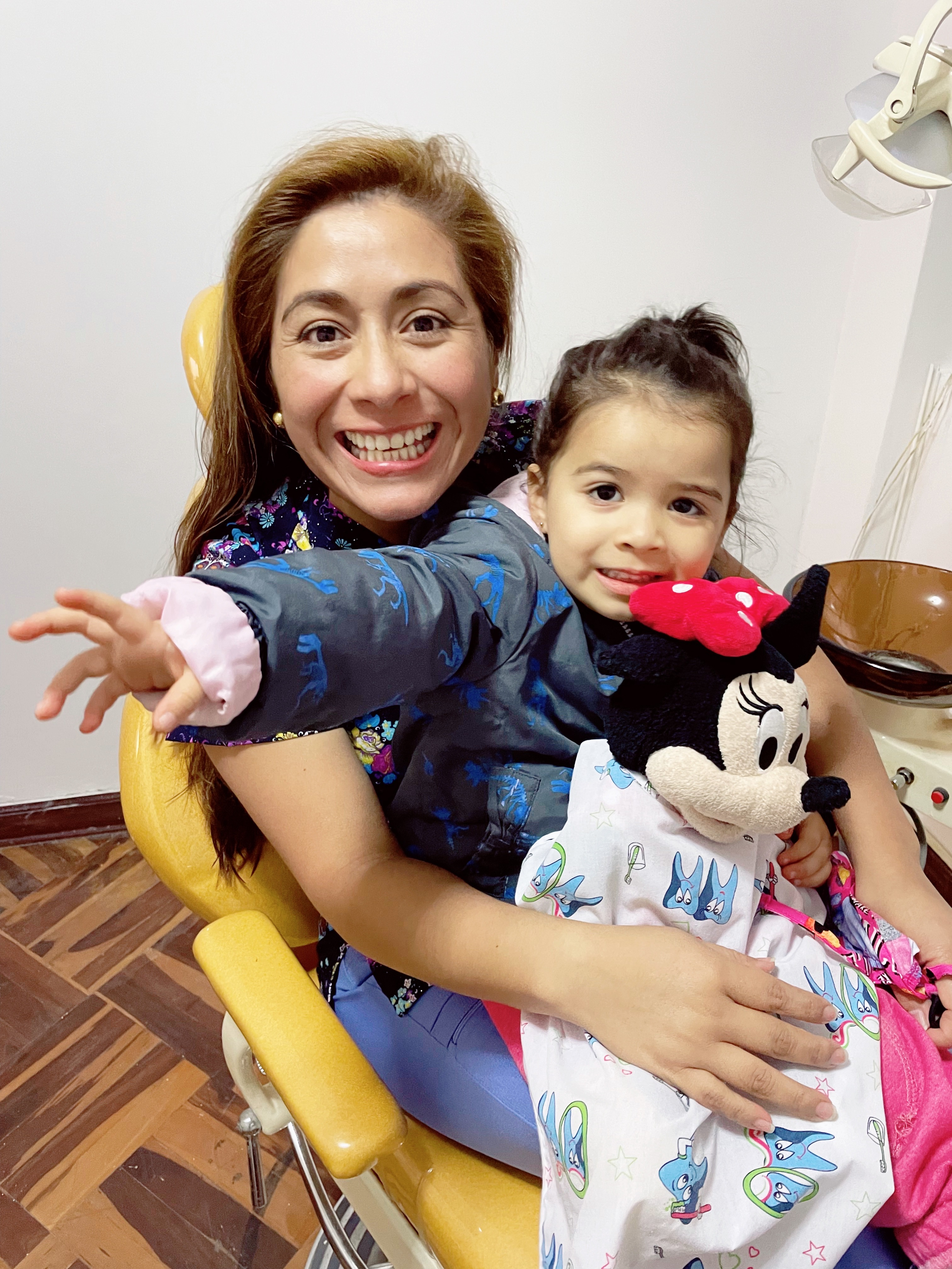
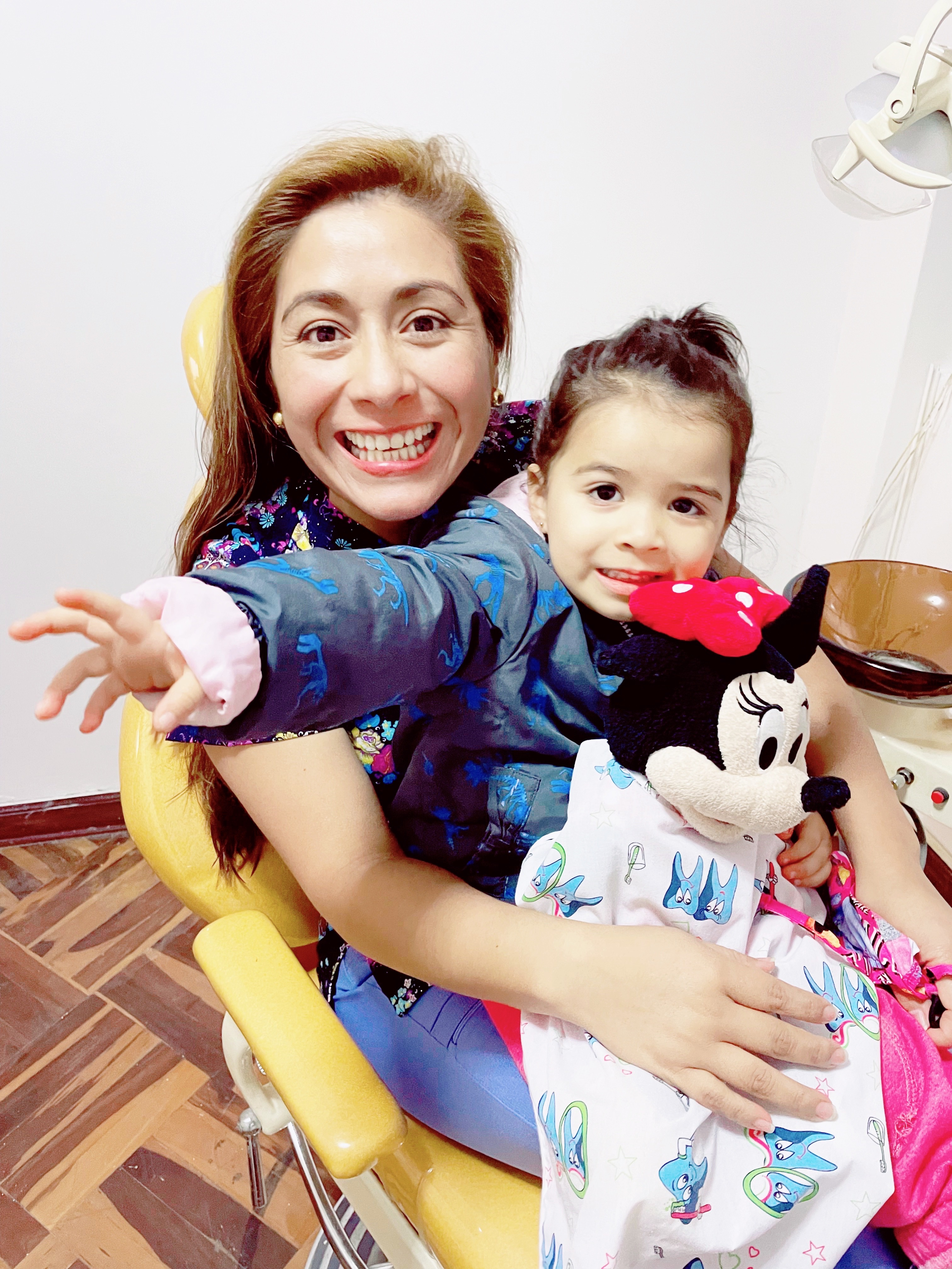
Update styling and edit imgs

diff --git a/index.html b/index.html
@@ -6,7 +6,7 @@
     <meta property="og:title" content="Dra. Viviana">
     <meta property="og:image" content="img/IMG-5522.JPG">
     <meta property="og:url" content="http://vivi.dentist/">
-    <title>Dra. Viviana</title>
+    <title>Dra. Vivi</title>
     <link rel=icon href=favicon.ico>
     <script src="https://cdn.tailwindcss.com"></script>
   </head>
@@ -76,7 +76,7 @@
           </ul>
         </div>
         <div class="lg:max-w-lg lg:w-full md:w-1/2 w-5/6">
-          <img class="object-cover object-center rounded" alt="hero" src="img/selfie.JPG">
+          <img class="object-cover object-center rounded" alt="hero" src="img/portrait.JPG">
         </div>
       </div>
     </section>
@@ -89,8 +89,8 @@
         </div>
 
         <div class="flex flex-wrap m-4">
-          <div class="p-4 md:w-1/3 w-full">
-            <div class="flex rounded-lg h-full bg-gray-100 p-8 flex-col">
+          <div class="p-4 md:w-1/2 w-full">
+            <div class="flex rounded-lg h-full bg-sky-200 p-8 flex-col">
               <div class="flex items-center mb-3">
                 <div class="w-8 h-8 mr-3 inline-flex items-center justify-center flex-shrink-0">
                   <svg xmlns="http://www.w3.org/2000/svg" viewBox="0 0 448 512"><!--! Font Awesome Pro 6.1.2 by @fontawesome - https://fontawesome.com License - https://fontawesome.com/license (Commercial License) Copyright 2022 Fonticons, Inc. --><path d="M438.6 105.4C451.1 117.9 451.1 138.1 438.6 150.6L182.6 406.6C170.1 419.1 149.9 419.1 137.4 406.6L9.372 278.6C-3.124 266.1-3.124 245.9 9.372 233.4C21.87 220.9 42.13 220.9 54.63 233.4L159.1 338.7L393.4 105.4C405.9 92.88 426.1 92.88 438.6 105.4H438.6z"/></svg>
@@ -105,8 +105,8 @@
             </div>
           </div>
 
-          <div class="p-4 md:w-1/3 w-full">
-            <div class="flex rounded-lg h-full bg-gray-100 p-8 flex-col">
+          <div class="p-4 md:w-1/2 w-full">
+            <div class="flex rounded-lg h-full bg-sky-200 p-8 flex-col">
               <div class="flex items-center mb-3">
                 <div class="w-8 h-8 mr-3 inline-flex items-center justify-center flex-shrink-0">
                   <svg xmlns="http://www.w3.org/2000/svg" viewBox="0 0 448 512"><!--! Font Awesome Pro 6.1.2 by @fontawesome - https://fontawesome.com License - https://fontawesome.com/license (Commercial License) Copyright 2022 Fonticons, Inc. --><path d="M394.1 212.8c-20.04 27.67-28.07 60.15-31.18 93.95c-3.748 41.34-8.785 82.46-17.89 122.8l-6.75 29.64c-2.68 12.14-13.29 20.78-25.39 20.78c-12 0-22.39-8.311-25.29-20.23l-29.57-121.2C254.1 322.6 240.1 311.4 224 311.4c-16.18 0-30.21 11.26-34.07 27.23l-29.57 121.2c-2.893 11.92-13.39 20.23-25.29 20.23c-12.21 0-22.71-8.639-25.5-20.78l-6.643-29.64c-9.105-40.36-14.14-81.48-17.1-122.8C81.93 272.1 73.9 240.5 53.86 212.8c-18.75-25.92-27.11-60.15-18.43-96.57c9.428-39.59 40.39-71.75 78.85-82.03c20.14-5.25 39.54-.4375 57.32 9.077l86.14 56.54c6.643 4.375 15.11 1.86 18.96-4.264c4.07-6.454 2.25-15.09-4.18-19.36l-24.21-15.86c3-1.531 6.215-2.735 9-4.813c22.39-16.84 48.75-28.65 76.39-21.33c38.46 10.28 69.43 42.43 78.85 82.03C421.2 152.7 412.9 187 394.1 212.8z"/></svg>
@@ -122,8 +122,8 @@
             </div>
           </div>
 
-          <div class="p-4 md:w-1/3 w-full">
-            <div class="flex rounded-lg h-full bg-gray-100 p-8 flex-col">
+          <div class="p-4 md:w-1/2 w-full">
+            <div class="flex rounded-lg h-full bg-sky-200 p-8 flex-col">
               <div class="flex items-center mb-3">
                 <div class="w-8 h-8 mr-3 inline-flex items-center justify-center flex-shrink-0">
                   <svg xmlns="http://www.w3.org/2000/svg" viewBox="0 0 576 512"><!--! Font Awesome Pro 6.2.0 by @fontawesome - https://fontawesome.com License - https://fontawesome.com/license (Commercial License) Copyright 2022 Fonticons, Inc. --><path d="M96 32C43 32 0 75 0 128v64c0 35.3 28.7 64 64 64H512c35.3 0 64-28.7 64-64V128c0-53-43-96-96-96H96zM224 96c26.5 0 48 21.5 48 48v56c0 13.3-10.7 24-24 24H200c-13.3 0-24-10.7-24-24V144c0-26.5 21.5-48 48-48zm80 48c0-26.5 21.5-48 48-48s48 21.5 48 48v56c0 13.3-10.7 24-24 24H328c-13.3 0-24-10.7-24-24V144zM96 128c26.5 0 48 21.5 48 48v24c0 13.3-10.7 24-24 24H72c-13.3 0-24-10.7-24-24V176c0-26.5 21.5-48 48-48zm336 48c0-26.5 21.5-48 48-48s48 21.5 48 48v24c0 13.3-10.7 24-24 24H456c-13.3 0-24-10.7-24-24V176zM96 480H480c53 0 96-43 96-96V352c0-35.3-28.7-64-64-64H64c-35.3 0-64 28.7-64 64v32c0 53 43 96 96 96zm0-64c-26.5 0-48-21.5-48-48V344c0-13.3 10.7-24 24-24h48c13.3 0 24 10.7 24 24v24c0 26.5-21.5 48-48 48zm80-48V344c0-13.3 10.7-24 24-24h48c13.3 0 24 10.7 24 24v24c0 26.5-21.5 48-48 48s-48-21.5-48-48zm176 48c-26.5 0-48-21.5-48-48V344c0-13.3 10.7-24 24-24h48c13.3 0 24 10.7 24 24v24c0 26.5-21.5 48-48 48zm80-48V344c0-13.3 10.7-24 24-24h48c13.3 0 24 10.7 24 24v24c0 26.5-21.5 48-48 48s-48-21.5-48-48z"/></svg>
@@ -138,24 +138,24 @@
             </div>
           </div>
 
-          <div class="p-4 md:w-1/3 w-full">
-            <div class="flex rounded-lg h-full bg-gray-100 p-8 flex-col">
+          <div class="p-4 md:w-1/2 w-full">
+            <div class="flex rounded-lg h-full bg-sky-200 p-8 flex-col">
               <div class="flex items-center mb-3">
                 <div class="w-8 h-8 mr-3 inline-flex items-center justify-center flex-shrink-0">
-                  <svg xmlns="http://www.w3.org/2000/svg" viewBox="0 0 512 512"><!--! Font Awesome Pro 6.1.2 by @fontawesome - https://fontawesome.com License - https://fontawesome.com/license (Commercial License) Copyright 2022 Fonticons, Inc. --><path d="M0 256C0 114.6 114.6 0 256 0C397.4 0 512 114.6 512 256C512 397.4 397.4 512 256 512C114.6 512 0 397.4 0 256zM256.3 331.8C208.9 331.8 164.1 324.9 124.5 312.8C112.2 309 100.2 319.7 105.2 331.5C130.1 390.6 188.4 432 256.3 432C324.2 432 382.4 390.6 407.4 331.5C412.4 319.7 400.4 309 388.1 312.8C348.4 324.9 303.7 331.8 256.3 331.8H256.3zM176 128C158.3 128 144 156.7 144 192C144 227.3 158.3 256 176 256C193.7 256 208 227.3 208 192C208 156.7 193.7 128 176 128zM336 256C353.7 256 368 227.3 368 192C368 156.7 353.7 128 336 128C318.3 128 304 156.7 304 192C304 227.3 318.3 256 336 256z"/></svg>
+                  <svg xmlns="http://www.w3.org/2000/svg" viewBox="0 0 576 512"><!--! Font Awesome Pro 6.1.2 by @fontawesome - https://fontawesome.com License - https://fontawesome.com/license (Commercial License) Copyright 2022 Fonticons, Inc. --><path d="M480 32H96C42.98 32 0 74.98 0 128v256c0 53.02 42.98 96 96 96h384c53.02 0 96-42.98 96-96V128C576 74.98 533 32 480 32zM144 336C144 362.5 122.5 384 96 384s-48-21.5-48-48v-32C48 295.1 55.13 288 64 288h64c8.875 0 16 7.125 16 16V336zM144 240C144 248.9 136.9 256 128 256H64C55.13 256 48 248.9 48 240v-32C48 181.5 69.5 160 96 160s48 21.5 48 48V240zM272 336C272 362.5 250.5 384 224 384s-48-21.5-48-48v-32C176 295.1 183.1 288 192 288h64c8.875 0 16 7.125 16 16V336zM272 242.3C272 249.9 265.9 256 258.3 256H189.7C182.1 256 176 249.9 176 242.3V176C176 149.5 197.5 128 224 128s48 21.54 48 48V242.3zM400 336c0 26.5-21.5 48-48 48s-48-21.5-48-48v-32C304 295.1 311.1 288 320 288h64c8.875 0 16 7.125 16 16V336zM400 242.3C400 249.9 393.9 256 386.3 256h-68.57C310.1 256 304 249.9 304 242.3V176C304 149.5 325.5 128 352 128s48 21.54 48 48V242.3zM528 336c0 26.5-21.5 48-48 48s-48-21.5-48-48v-32C432 295.1 439.1 288 448 288h64c8.875 0 16 7.125 16 16V336zM528 240C528 248.9 520.9 256 512 256h-64c-8.875 0-16-7.125-16-16v-32C432 181.5 453.5 160 480 160s48 21.5 48 48V240z"/></svg>
                 </div>
-                <h2 class="es text-gray-900 text-lg title-font font-medium">Implantes</h2>
-                <h2 class="en text-gray-900 text-lg title-font font-medium">Implants</h2>
+                <h2 class="es text-gray-900 text-lg title-font font-medium">Restauraciones Estéticas</h2>
+                <h2 class="en text-gray-900 text-lg title-font font-medium">Aesthetic Restorations</h2>
               </div>
               <div class="flex-grow">
-                <p class="es leading-relaxed text-base">Hermosos implantes de larga duración que transforman tu mordida y tu sonrisa.</p>
-                <p class="en leading-relaxed text-base">Beautiful long-lasting implants that transform your bite and your smile.</p>
+                <p class="es leading-relaxed text-base">Actualmente se considera una opción terapéutica para modificar el color, la forma y la posición de los dientes mejorando el aspecto de la sonrisa ya sea por defectos dentarios o presencia de lesiones cariosas.</p>
+                <p class="en leading-relaxed text-base">It is currently considered a therapeutic option to modify the color, shape and position of the teeth, improving the appearance of your smile either due to dental defects or the presence of carious lesions.</p>
               </div>
             </div>
           </div>
 
-          <div class="p-4 md:w-1/3 w-full">
-            <div class="flex rounded-lg h-full bg-gray-100 p-8 flex-col">
+          <div class="p-4 md:w-1/2 w-full">
+            <div class="flex rounded-lg h-full bg-sky-200 p-8 flex-col">
               <div class="flex items-center mb-3">
                 <div class="w-8 h-8 mr-3 inline-flex items-center justify-center flex-shrink-0">
                   <svg xmlns="http://www.w3.org/2000/svg" viewBox="0 0 576 512"><!--! Font Awesome Pro 6.1.2 by @fontawesome - https://fontawesome.com License - https://fontawesome.com/license (Commercial License) Copyright 2022 Fonticons, Inc. --><path d="M480 32H96C42.98 32 0 74.98 0 128v256c0 53.02 42.98 96 96 96h384c53.02 0 96-42.98 96-96V128C576 74.98 533 32 480 32zM144 336C144 362.5 122.5 384 96 384s-48-21.5-48-48v-32C48 295.1 55.13 288 64 288h64c8.875 0 16 7.125 16 16V336zM144 240C144 248.9 136.9 256 128 256H64C55.13 256 48 248.9 48 240v-32C48 181.5 69.5 160 96 160s48 21.5 48 48V240zM272 336C272 362.5 250.5 384 224 384s-48-21.5-48-48v-32C176 295.1 183.1 288 192 288h64c8.875 0 16 7.125 16 16V336zM272 242.3C272 249.9 265.9 256 258.3 256H189.7C182.1 256 176 249.9 176 242.3V176C176 149.5 197.5 128 224 128s48 21.54 48 48V242.3zM400 336c0 26.5-21.5 48-48 48s-48-21.5-48-48v-32C304 295.1 311.1 288 320 288h64c8.875 0 16 7.125 16 16V336zM400 242.3C400 249.9 393.9 256 386.3 256h-68.57C310.1 256 304 249.9 304 242.3V176C304 149.5 325.5 128 352 128s48 21.54 48 48V242.3zM528 336c0 26.5-21.5 48-48 48s-48-21.5-48-48v-32C432 295.1 439.1 288 448 288h64c8.875 0 16 7.125 16 16V336zM528 240C528 248.9 520.9 256 512 256h-64c-8.875 0-16-7.125-16-16v-32C432 181.5 453.5 160 480 160s48 21.5 48 48V240z"/></svg>
@@ -170,8 +170,24 @@
             </div>
           </div>
 
-          <div class="p-4 md:w-1/3 w-full">
-            <div class="flex rounded-lg h-full bg-gray-100 p-8 flex-col">
+          <div class="p-4 md:w-1/2 w-full">
+            <div class="flex rounded-lg h-full bg-sky-200 p-8 flex-col">
+              <div class="flex items-center mb-3">
+                <div class="w-8 h-8 mr-3 inline-flex items-center justify-center flex-shrink-0">
+                  <svg xmlns="http://www.w3.org/2000/svg" viewBox="0 0 512 512"><!--! Font Awesome Pro 6.1.2 by @fontawesome - https://fontawesome.com License - https://fontawesome.com/license (Commercial License) Copyright 2022 Fonticons, Inc. --><path d="M0 256C0 114.6 114.6 0 256 0C397.4 0 512 114.6 512 256C512 397.4 397.4 512 256 512C114.6 512 0 397.4 0 256zM256.3 331.8C208.9 331.8 164.1 324.9 124.5 312.8C112.2 309 100.2 319.7 105.2 331.5C130.1 390.6 188.4 432 256.3 432C324.2 432 382.4 390.6 407.4 331.5C412.4 319.7 400.4 309 388.1 312.8C348.4 324.9 303.7 331.8 256.3 331.8H256.3zM176 128C158.3 128 144 156.7 144 192C144 227.3 158.3 256 176 256C193.7 256 208 227.3 208 192C208 156.7 193.7 128 176 128zM336 256C353.7 256 368 227.3 368 192C368 156.7 353.7 128 336 128C318.3 128 304 156.7 304 192C304 227.3 318.3 256 336 256z"/></svg>
+                </div>
+                <h2 class="es text-gray-900 text-lg title-font font-medium">Implantes</h2>
+                <h2 class="en text-gray-900 text-lg title-font font-medium">Implants</h2>
+              </div>
+              <div class="flex-grow">
+                <p class="es leading-relaxed text-base">Hermosos implantes de larga duración que transforman tu mordida y tu sonrisa.</p>
+                <p class="en leading-relaxed text-base">Beautiful long-lasting implants that transform your bite and your smile.</p>
+              </div>
+            </div>
+          </div>
+
+          <div class="p-4 md:w-1/2 w-full">
+            <div class="flex rounded-lg h-full bg-sky-200 p-8 flex-col">
               <div class="flex items-center mb-3">
                 <div class="w-8 h-8 mr-3 inline-flex items-center justify-center flex-shrink-0">
                   <svg xmlns="http://www.w3.org/2000/svg" viewBox="0 0 448 512"><!--! Font Awesome Pro 6.2.0 by @fontawesome - https://fontawesome.com License - https://fontawesome.com/license (Commercial License) Copyright 2022 Fonticons, Inc. --><path d="M256 80c0-17.7-14.3-32-32-32s-32 14.3-32 32V224H48c-17.7 0-32 14.3-32 32s14.3 32 32 32H192V432c0 17.7 14.3 32 32 32s32-14.3 32-32V288H400c17.7 0 32-14.3 32-32s-14.3-32-32-32H256V80z"/></svg>
@@ -181,8 +197,6 @@
               </div>
               <div class="flex-grow">
                 <ul class="list-disc list-inside mb-8">
-                  <li class="es leading-relaxed text-base">Restauraciones con resinas 3M</li>
-                  <li class="en leading-relaxed text-base">Restorations with 3M resins</li>
                   <li class="es leading-relaxed text-base">Sellantes</li>
                   <li class="en leading-relaxed text-base">Sealants</li>
                   <li class="es leading-relaxed text-base">Extracciones</li>
